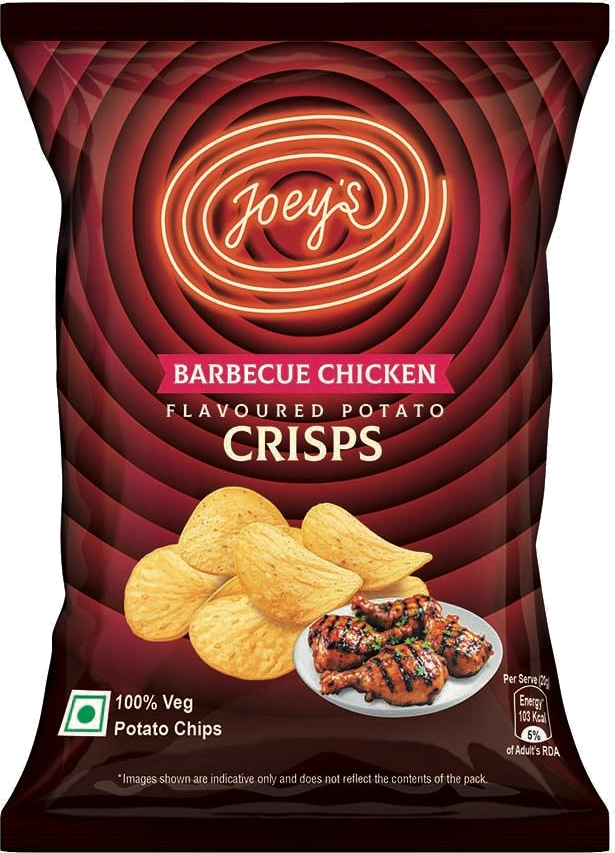
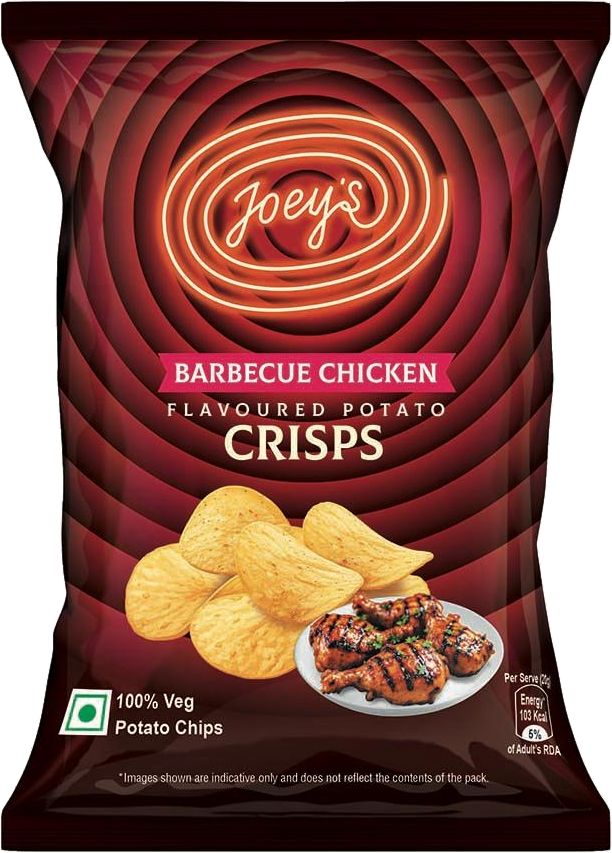
Correct oil ingredient, add customer care details, hide socials, replace pack shots
Ingredients: the oil is Refined Palmolein, not sunflower. Narrowed the
unverified-claims warning accordingly; "Sea Salt" is still an assumption
and remains flagged.

Customer care: filled the support email and phone placeholders, which
flips contactReady and turns every support address on the site into a
live mailto:/tel: link. Added supportHours and surfaced it under the
phone on /contact and in the Terms contact clause.

Socials: hidden behind an enabled flag matching the existing site.buy
pattern, since the accounts do not exist yet and the column was four
links to "#". The footer grid switches template so no gap is left.

Pack shots: replaced with the higher-resolution artwork. The supplied
files were opaque RGB on white, so the background was removed with an
edge flood fill (interior whites - the cream wordmark, the plate, the veg
mark - are unreachable from the border and survive) plus a lightness-
conditional erosion to strip the white antialias rim that would
otherwise halo over the dark sections. All three share one trim box, so
the declared width/height is now correct for every render site; it was
751x1000 against files that were really 615x853.

diff --git a/src/app/page.tsx b/src/app/page.tsx
@@ -49,19 +49,18 @@ const pillars: { icon: Mark; title: string; body: string }[] = [
 /*
  * Ingredient cards.
  *
- * ⚠ UNVERIFIED CLAIMS - do not launch without checking these against the back
- * of the pack. Nothing the client supplied (the flavour write-ups, the pack
- * artwork, the manufacturing page) contains an ingredient declaration. The
- * words "sunflower" and "sea salt" appear nowhere in any of it; both were
- * assumed while building this row and could easily be palm or rice bran oil and
- * plain iodised salt. Ingredient declarations are regulated, so these two
- * labels (and the sunflower photograph that follows the oil one) need
- * confirming or correcting before this page goes anywhere near production.
+ * ⚠ ONE UNVERIFIED CLAIM LEFT - "Sea Salt". Nothing the client supplied (the
+ * flavour write-ups, the pack artwork, the manufacturing page) contains an
+ * ingredient declaration, and the words "sea salt" appear nowhere in any of it;
+ * it was assumed while building this row and could easily be plain iodised
+ * salt. Ingredient declarations are regulated, so that label needs confirming
+ * or correcting before this page goes anywhere near production.
  *
- * Verified and safe: "Potatoes" (pack reads "Potato Chips"), "Seasoning" (the
- * manufacturing page states the flavour is all in the seasoning), and
- * "100% Vegetarian" (stated on pack, in the write-ups, and on the
- * manufacturing page).
+ * Verified and safe: "Potatoes" (pack reads "Potato Chips"), "Refined Palmolein
+ * Oil" (confirmed by the client, correcting an earlier assumption of sunflower
+ * oil), "Seasoning" (the manufacturing page states the flavour is all in the
+ * seasoning), and "100% Vegetarian" (stated on pack, in the write-ups, and on
+ * the manufacturing page).
  *
  * `image` is the slot for photography. Drop a square shot into
  * /public/ingredients and set the path; the illustration is the fallback and
@@ -70,7 +69,7 @@ const pillars: { icon: Mark; title: string; body: string }[] = [
  */
 const ingredients: { icon: Mark; label: string; image?: string }[] = [
   { icon: MarkPotato, label: "Potatoes", image: "/ingredients/potatoes.jpg" },
-  { icon: MarkOil, label: "Sunflower Oil", image: "/ingredients/oil.jpg" },
+  { icon: MarkOil, label: "Refined Palmolein Oil", image: "/ingredients/oil.jpg" },
   { icon: MarkSalt, label: "Sea Salt", image: "/ingredients/salt.jpg" },
   { icon: MarkSeasoning, label: "Seasoning", image: "/ingredients/seasoning.jpg" },
   // Closes the row on the certification rather than a prohibition sign. Same
@@ -162,8 +161,8 @@ export default function Home() {
                   key={f.slug}
                   src={f.pack}
                   alt={`Joey's ${f.name} crisps`}
-                  width={751}
-                  height={1000}
+                  width={612}
+                  height={853}
                   priority={i === 1}
                   className={
                       i === 1
@@ -256,8 +255,8 @@ export default function Home() {
               <Image
                 src={bbq.pack}
                 alt={`Joey's ${bbq.name} crisps pack`}
-                width={751}
-                height={1000}
+                width={612}
+                height={853}
                 className="relative drop-shadow-[0_22px_36px_rgba(59,13,20,0.4)]"
               />
             </Reveal>
@@ -398,8 +397,8 @@ export default function Home() {
           src={bacon.pack}
           alt=""
           aria-hidden
-          width={751}
-          height={1000}
+          width={612}
+          height={853}
           /* breaks the left edge only. Letting it drop past the bottom put a
              pack across the marquee strip below, which reads as a mistake. */
           className="pointer-events-none absolute -left-10 bottom-4 hidden w-[150px] -rotate-[14deg] drop-shadow-[0_20px_36px_rgba(0,0,0,0.5)] lg:block xl:w-[172px]"
@@ -477,8 +476,8 @@ export default function Home() {
           src={prawn.pack}
           alt=""
           aria-hidden
-          width={751}
-          height={1000}
+          width={612}
+          height={853}
           /* breaks the left edge, not the bottom one: dropping it into the dark
              notify strip below made the pack look like it had fallen out of the
              layout. The page frame clips the side, which is the intended read. */
@@ -488,8 +487,8 @@ export default function Home() {
           src={bacon.pack}
           alt=""
           aria-hidden
-          width={751}
-          height={1000}
+          width={612}
+          height={853}
           className="pointer-events-none absolute -top-14 right-[4%] z-10 hidden w-[150px] rotate-[12deg] drop-shadow-[0_18px_34px_rgba(59,13,20,0.45)] lg:block xl:w-[172px]"
         />
 

diff --git a/src/lib/site.ts b/src/lib/site.ts
@@ -13,13 +13,21 @@ export const site = {
     "Joey's is a range of 100% vegetarian flavoured potato crisps: Barbecue Chicken, Smokey Bacon and Prawn Cocktail, made in Tamil Nadu, India.",
 
   /*
-   * PLACEHOLDER - awaiting client. Bracketed on purpose, matching the client's
-   * own `[support email / phone to be added]` in the manufacturing document, so
-   * these read as obviously unfilled rather than as a plausible address someone
-   * might ship. `contactReady` below keeps them from becoming broken links.
+   * Supplied by the client. Filling these flips `contactReady` below to true on
+   * its own, which turns every support address and number on the site from inert
+   * text into a real mailto:/tel: link. Nothing else needed changing.
+   *
+   * The email is stored lowercase; it was given in caps, and while mail servers
+   * treat the domain case-insensitively (and every real-world local part too),
+   * lowercase is what reads as an address rather than as shouting.
+   *
+   * The number is a 10-digit Indian mobile, written with the +91 country code so
+   * it dials from outside India as well. `tel:` strips the spaces, so the link
+   * resolves to +919600616019.
    */
-  supportEmail: "[EMAIL]",
-  supportPhone: "[PHONE]",
+  supportEmail: "customer.support@ritaandjosfoods.com",
+  supportPhone: "+91 96006 16019",
+  supportHours: "9.00 am to 6.00 pm",
   url: "https://joeys.example",
 
   /*
@@ -41,12 +49,20 @@ export const site = {
     links: [] as { label: string; href: string }[],
   },
 
-  social: [
-    { label: "Instagram", href: "#" }, // PLACEHOLDER
-    { label: "Facebook", href: "#" }, // PLACEHOLDER
-    { label: "X", href: "#" }, // PLACEHOLDER
-    { label: "LinkedIn", href: "#" }, // PLACEHOLDER
-  ],
+  /*
+   * Hidden for now - the accounts do not exist yet, so the footer column was
+   * four links to "#". Set `enabled: true` and fill in the hrefs and the column
+   * comes back on its own; the footer grid adapts to it. Same pattern as `buy`.
+   */
+  social: {
+    enabled: false,
+    links: [
+      { label: "Instagram", href: "#" }, // PLACEHOLDER
+      { label: "Facebook", href: "#" }, // PLACEHOLDER
+      { label: "X", href: "#" }, // PLACEHOLDER
+      { label: "LinkedIn", href: "#" }, // PLACEHOLDER
+    ],
+  },
 
   manufacturer: {
     name: "Podaran Snacks",
@@ -77,6 +93,9 @@ export const site = {
  * False while the contact details are still placeholders. Anything that would
  * otherwise render `mailto:[EMAIL]` checks this and falls back to plain text or
  * to the contact form instead of shipping a dead link.
+ *
+ * Now true - the real address and number are in. The guard stays because it costs
+ * nothing and catches a regression if either value is ever blanked back out.
  */
 export const contactReady =
   !site.supportEmail.startsWith("[") && !site.supportPhone.startsWith("[");

diff --git a/src/components/Footer.tsx b/src/components/Footer.tsx
@@ -45,7 +45,13 @@ export function Footer() {
     <>
       {/* ── main footer ── */}
       <footer className="border-t border-cream/10 bg-ink">
-        <div className="mx-auto grid max-w-[1240px] grid-cols-2 gap-x-6 gap-y-10 px-5 py-12 sm:px-8 sm:py-14 lg:grid-cols-[1.4fr_repeat(3,1fr)_1fr]">
+        <div
+          className={`mx-auto grid max-w-[1240px] grid-cols-2 gap-x-6 gap-y-10 px-5 py-12 sm:px-8 sm:py-14 ${
+            site.social.enabled
+              ? "lg:grid-cols-[1.4fr_repeat(3,1fr)_1fr]"
+              : "lg:grid-cols-[1.4fr_repeat(3,1fr)]"
+          }`}
+        >
           <div className="col-span-2 lg:col-span-1">
             <Image
               src="/joeys-logo.png"
@@ -77,20 +83,22 @@ export function Footer() {
             </div>
           ))}
 
-          <div>
-            <h3 className="head mb-4 text-[13px] uppercase tracking-[0.07em] text-cream">
-              Social
-            </h3>
-            <ul className="space-y-3 sm:space-y-2.5">
-              {site.social.map((s) => (
-                <li key={s.label}>
-                  <a href={s.href} className={linkCls}>
-                    {s.label}
-                  </a>
-                </li>
-              ))}
-            </ul>
-          </div>
+          {site.social.enabled && (
+            <div>
+              <h3 className="head mb-4 text-[13px] uppercase tracking-[0.07em] text-cream">
+                Social
+              </h3>
+              <ul className="space-y-3 sm:space-y-2.5">
+                {site.social.links.map((s) => (
+                  <li key={s.label}>
+                    <a href={s.href} className={linkCls}>
+                      {s.label}
+                    </a>
+                  </li>
+                ))}
+              </ul>
+            </div>
+          )}
         </div>
 
         {/*

diff --git a/src/app/contact/page.tsx b/src/app/contact/page.tsx
@@ -150,6 +150,14 @@ export default function ContactPage() {
                 kind="phone"
                 className="head mt-2 block text-[clamp(1.15rem,3.4vw,1.5rem)] text-gold transition-colors duration-[180ms] hover:text-cream"
               />
+              {/*
+                The hours belong to the phone, not the email, so they sit under
+                the number and are worded as such. Without this, someone rings at
+                nine at night and reads the silence as the brand ignoring them.
+              */}
+              <p className="mt-2.5 text-[13px] text-cream/45">
+                Calls answered {site.supportHours}
+              </p>
             </div>
             <div>
               <p className="eyebrow uppercase text-cream/40">Marketed by</p>

diff --git a/src/lib/legal.ts b/src/lib/legal.ts
@@ -105,7 +105,7 @@ export const terms: LegalDoc = {
       id: "contact",
       heading: "Contact",
       body: [
-        `For any question about these terms, or about a specific pack, write to ${site.supportEmail} or call ${site.supportPhone}. If you are asking about a pack, please include the batch code printed on the back so we can trace it.`,
+        `For any question about these terms, or about a specific pack, write to ${site.supportEmail} or call ${site.supportPhone} between ${site.supportHours}. If you are asking about a pack, please include the batch code printed on the back so we can trace it.`,
       ],
     },
   ],

diff --git a/src/app/flavours/[slug]/page.tsx b/src/app/flavours/[slug]/page.tsx
@@ -64,8 +64,8 @@ export default async function FlavourPage({ params }: { params: Promise<{ slug: 
               id="flavour-hero-pack"
               src={flavour.pack}
               alt={`Joey's ${flavour.name} flavoured potato crisps, ${site.pack.weight} pack`}
-              width={751}
-              height={1000}
+              width={612}
+              height={853}
               priority
               className="relative w-[62vw] max-w-[380px] drop-shadow-[0_30px_50px_rgba(0,0,0,0.6)] lg:w-[68%]"
             />

diff --git a/src/components/PacksMegaMenu.tsx b/src/components/PacksMegaMenu.tsx
@@ -62,8 +62,8 @@ export function PacksMegaMenu({
                     src={f.pack}
                     alt=""
                     aria-hidden
-                    width={751}
-                    height={1000}
+                    width={612}
+                    height={853}
                     className="w-[70%] drop-shadow-[0_10px_16px_rgba(0,0,0,0.5)] transition-transform duration-[260ms] ease-[cubic-bezier(0.23,1,0.32,1)] group-hover:-translate-y-1"
                   />
                 </span>
